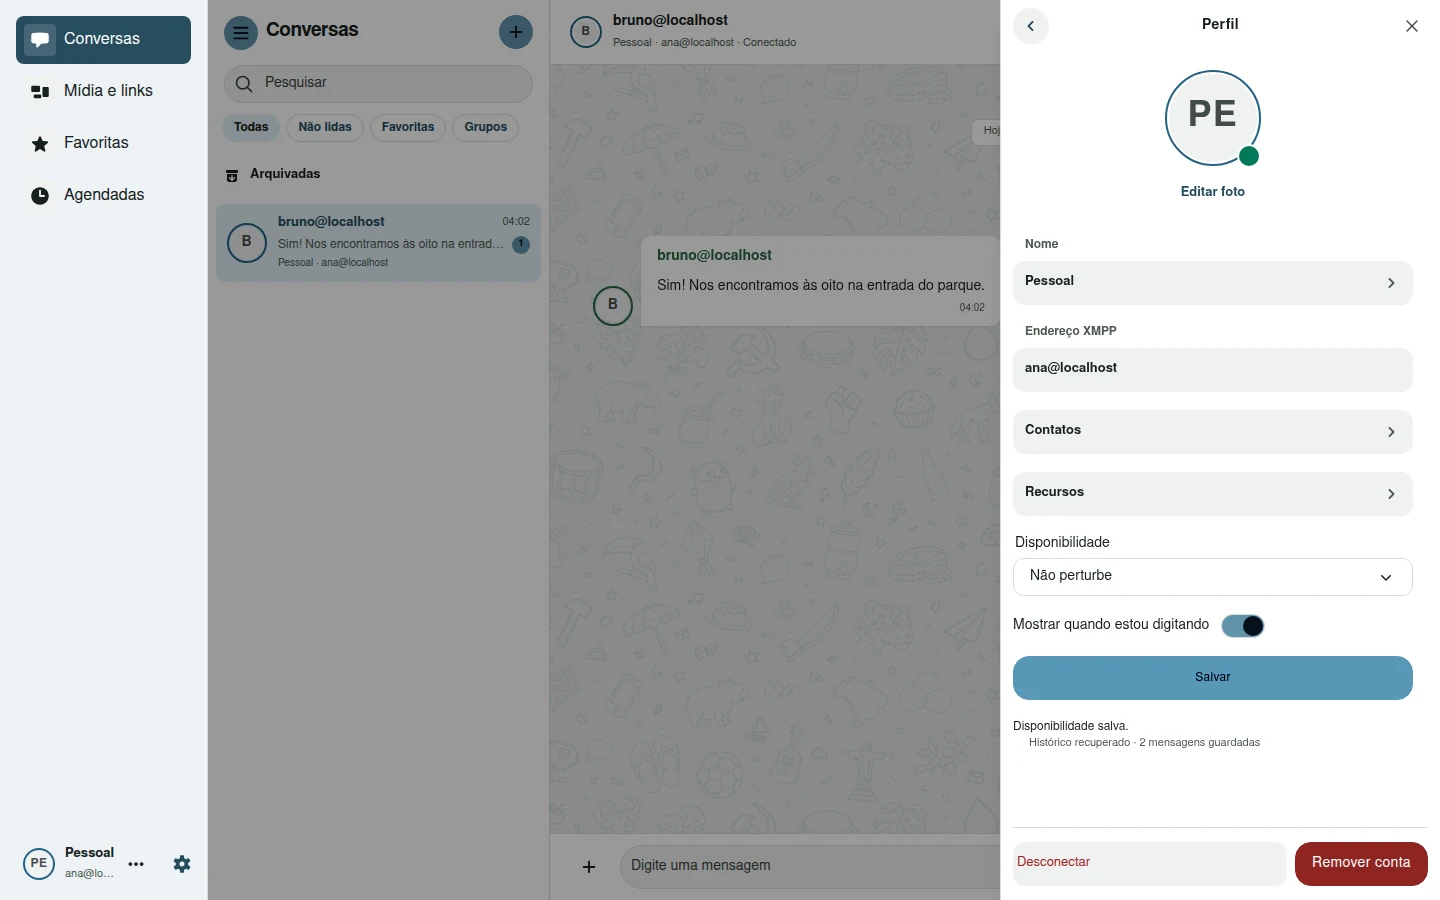
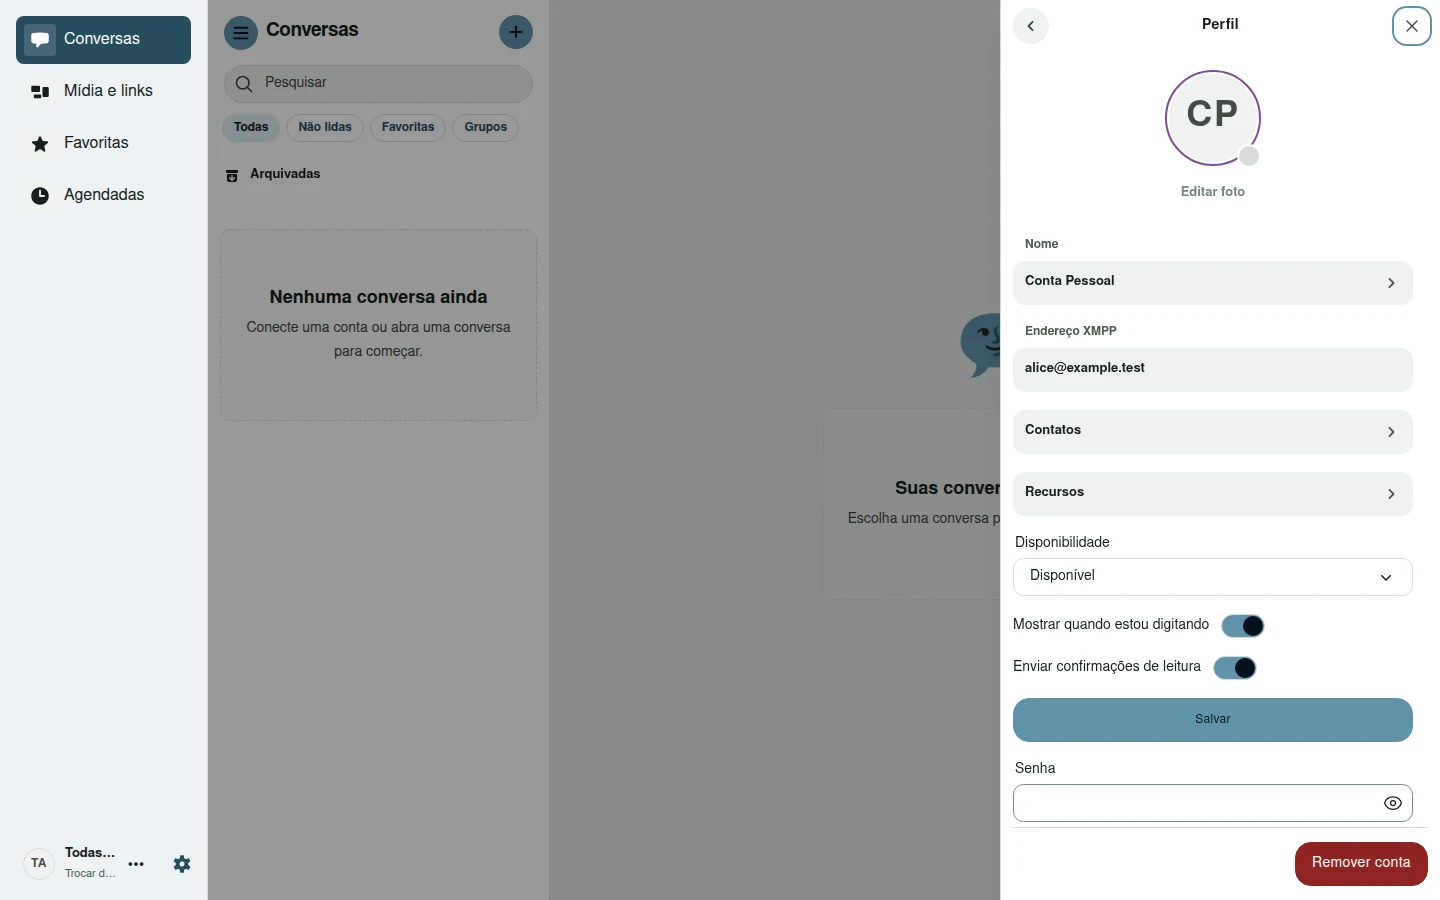
Documentar confirmações de leitura por conta

diff --git a/content/docs/manual/index.md b/content/docs/manual/index.md
@@ -111,7 +111,7 @@ dele. O Oiê mantém a conversa e as mensagens guardadas.
 
 [![Painel Contatos da conta Pessoal, com o endereço XMPP de Bruno e os botões Adicionar contato e Remover.](imagens/contatos.webp)](imagens/contatos-original.webp)
 
-### Disponibilidade e digitação
+### Disponibilidade, digitação e confirmações de leitura
 
 No **Perfil** da conta, abra **Disponibilidade**, escolha **Disponível**,
 **Ausente** ou **Não perturbe** e selecione **Salvar**. Em **Não perturbe**,
@@ -120,7 +120,17 @@ as mensagens continuam chegando sem avisos ou sons para aquela conta.
 Desative **Mostrar quando estou digitando** e selecione **Salvar** para
 deixar de enviar o indicador nas conversas diretas compatíveis.
 
-[![Preferências da conta com Não perturbe selecionado, a opção Mostrar quando estou digitando e o botão Salvar.](imagens/disponibilidade-conta.webp)](imagens/disponibilidade-conta-original.webp)
+**Enviar confirmações de leitura** vem ativado por conta. Para mudar a
+preferência, abra **Trocar de conta → Gerenciar contas → Perfil**, altere a
+opção e selecione **Salvar**. O Oiê pode enviar a confirmação ao ler mensagens
+ou escolher **Marcar como lida** em conversas compatíveis. Em conversas diretas,
+o contato precisa solicitar a confirmação e ter acesso à sua disponibilidade.
+Em salas compatíveis, outros participantes podem receber a confirmação.
+Desativar a opção mantém a contagem de mensagens não lidas no Oiê.
+
+Essa opção requer uma versão posterior à oferecida atualmente em **Baixar**.
+
+[![Preferências da conta com Disponibilidade, Mostrar quando estou digitando, Enviar confirmações de leitura e o botão Salvar.](imagens/disponibilidade-conta.webp)](imagens/disponibilidade-conta-original.webp)
 
 ### Remover uma conta
 

diff --git a/README.md b/README.md
@@ -68,6 +68,8 @@ A instalação do `oiectl` por release independente foi conferida com a [release
 
 A seção **Histórico e busca em salas** descreve o realce e a seleção de versões anteriores disponíveis desde a rc.13. [Revisão 699be01 do Oiê](https://github.com/araihu/oie/tree/699be01c6aacad2a03f1ddcd2bdb4eb195a64c69)
 
+A seção de confirmações de leitura do manual foi conferida com o Oiê na revisão [f173d06e](https://github.com/araihu/oie/commit/f173d06e29312185aa4010b77b8c21630c8d559b).
+
 As capturas da página inicial, do manual e dos atalhos mostram a interface em pt-BR com dados fictícios em instâncias isoladas. A captura da página inicial e as sete capturas de recursos mais antigas foram refeitas na [revisão e87ea75](https://github.com/araihu/oie/tree/e87ea75b0dac62915c0b4e7fe8cb49d01ecc6692). As capturas da busca geral e da solicitação de mensagem são de `6c8e8c0`, que tem a mesma interface. As capturas dos anexos e da busca de fuso horário foram feitas na revisão da rc.9 (`d6ce9ae`). As imagens estão em WebP.
 
 Os fluxos de **Mídia e links**, **Encaminhar mensagens** e **Descobrir e gerenciar salas**, a busca de favoritas no CLI e o índice de busca padrão foram conferidos na [revisão 4809005 do aplicativo](https://github.com/araihu/oie/tree/48090057513b2eab83d526d44df1d7764ac16a0b), usada na rc.14. As capturas de encaminhamento e gerenciamento de salas vieram dos PRs #31 e #22.
